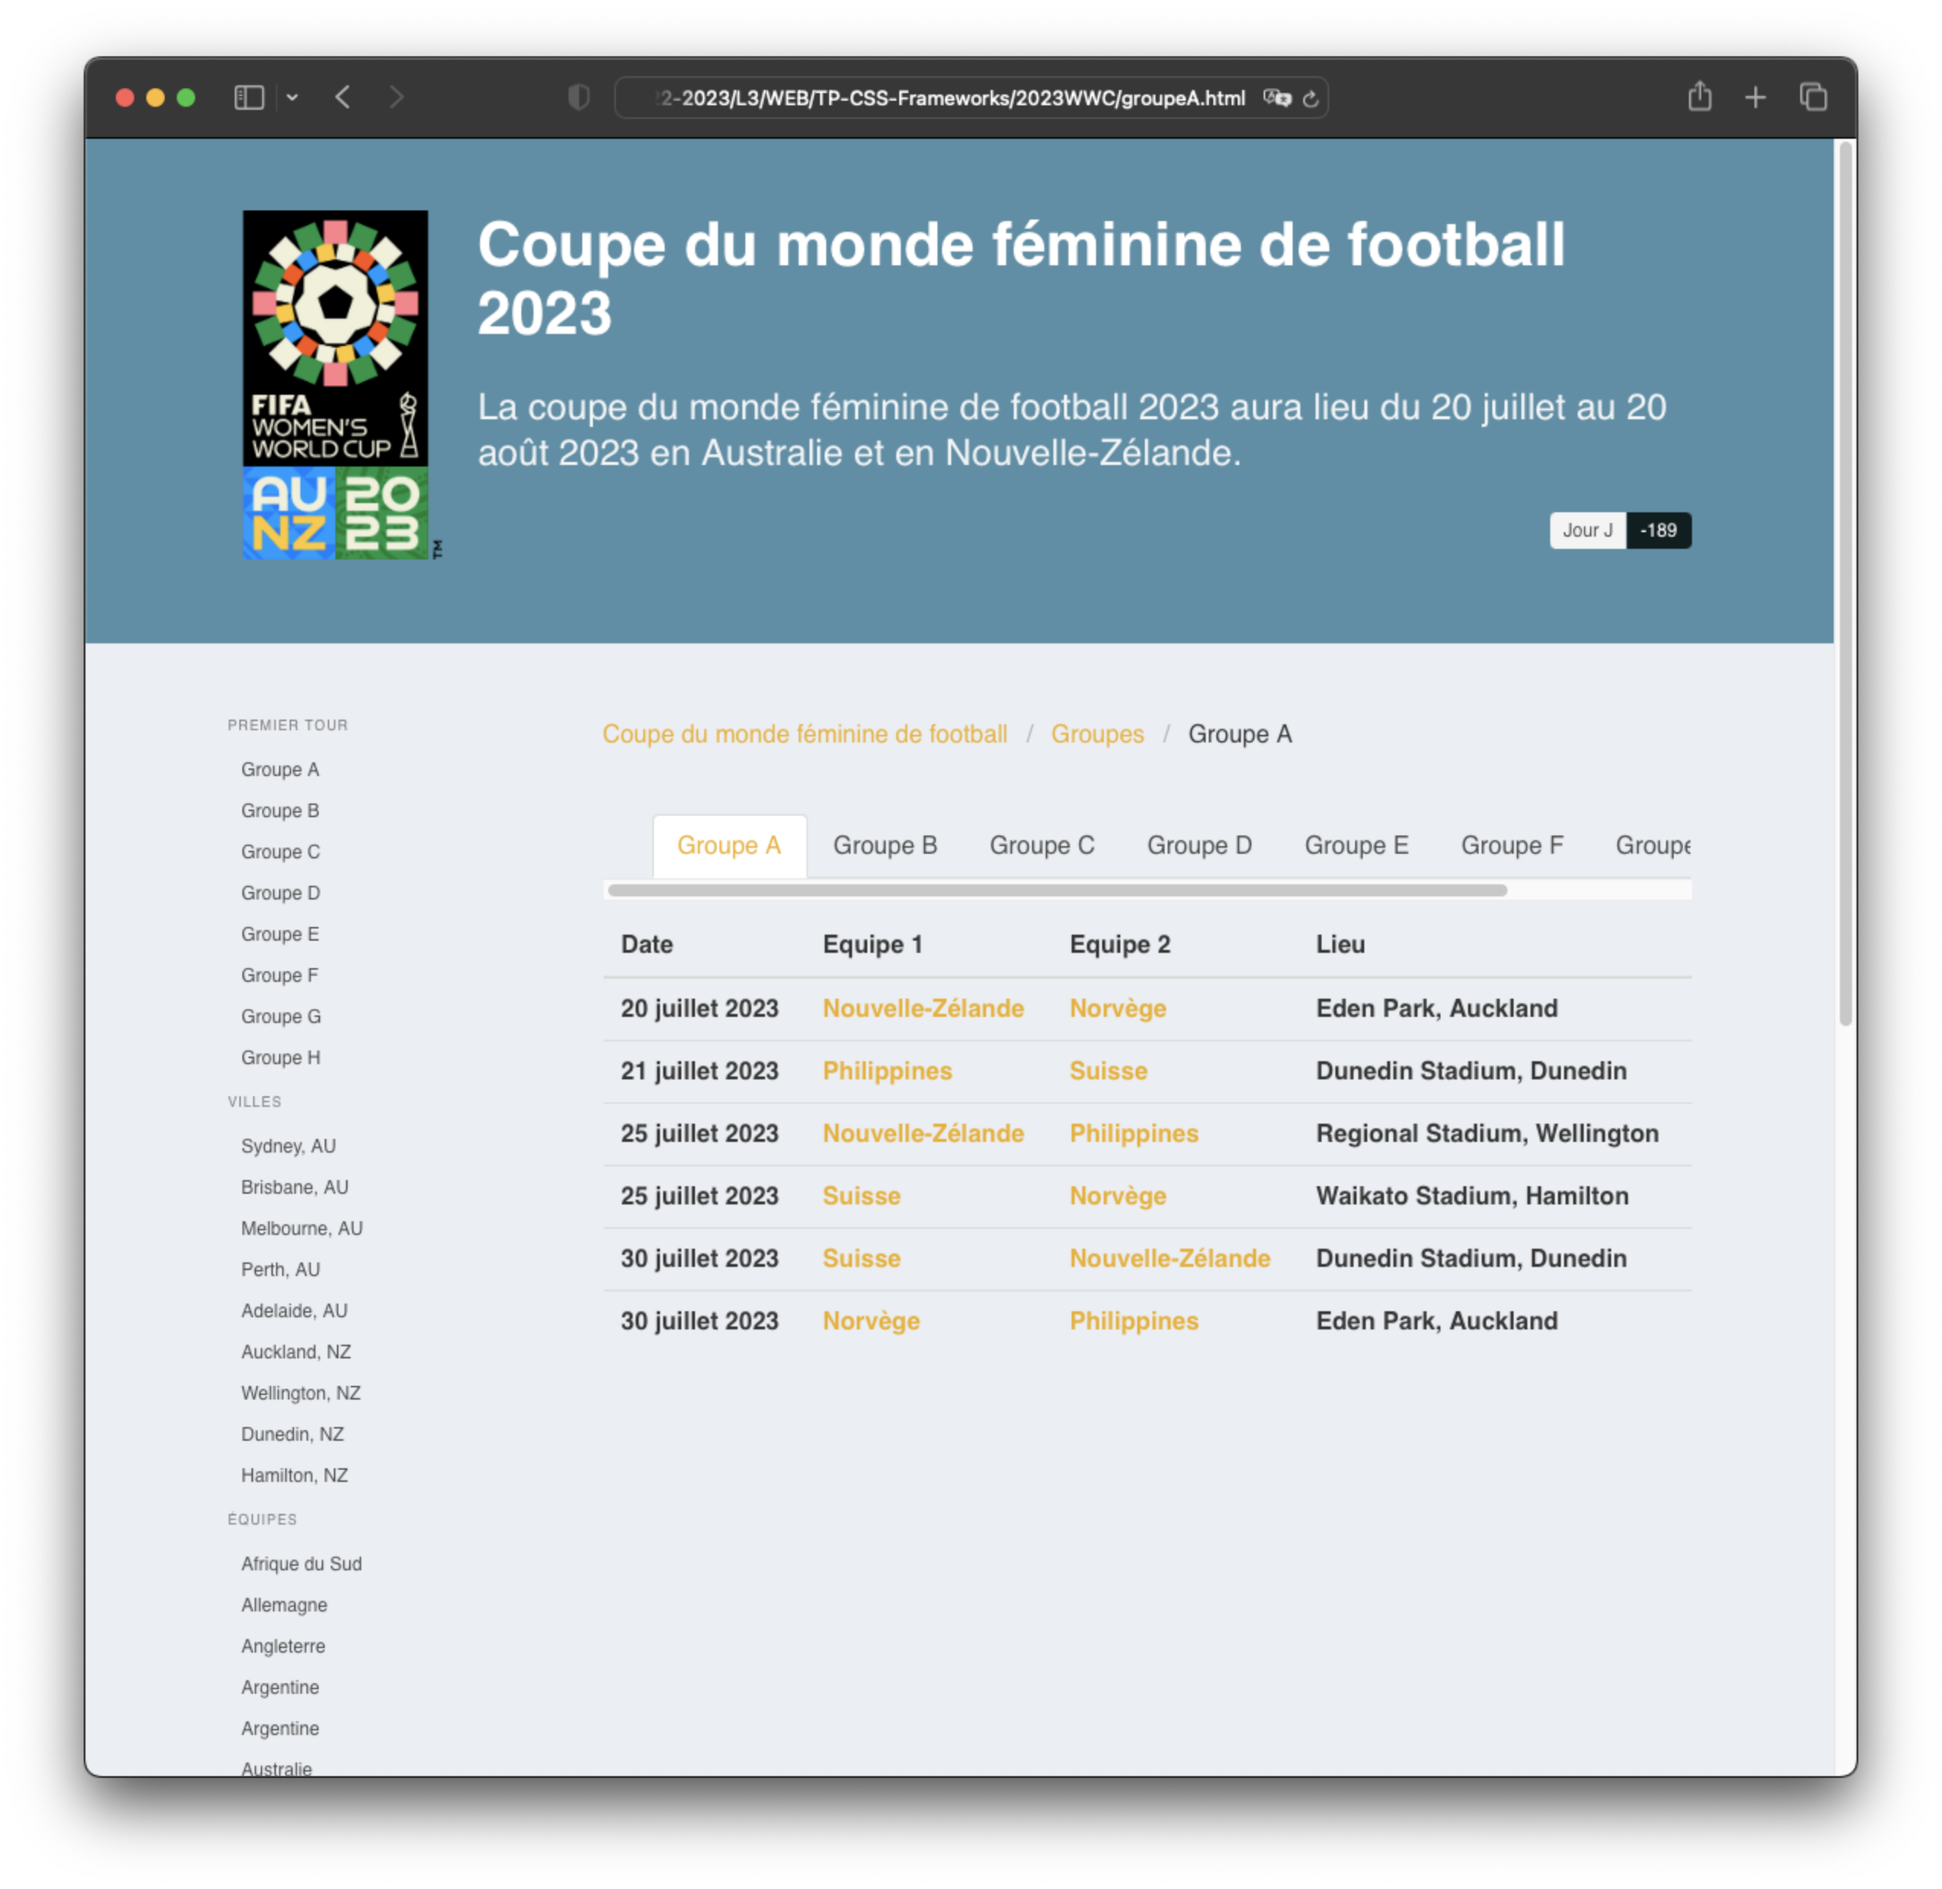
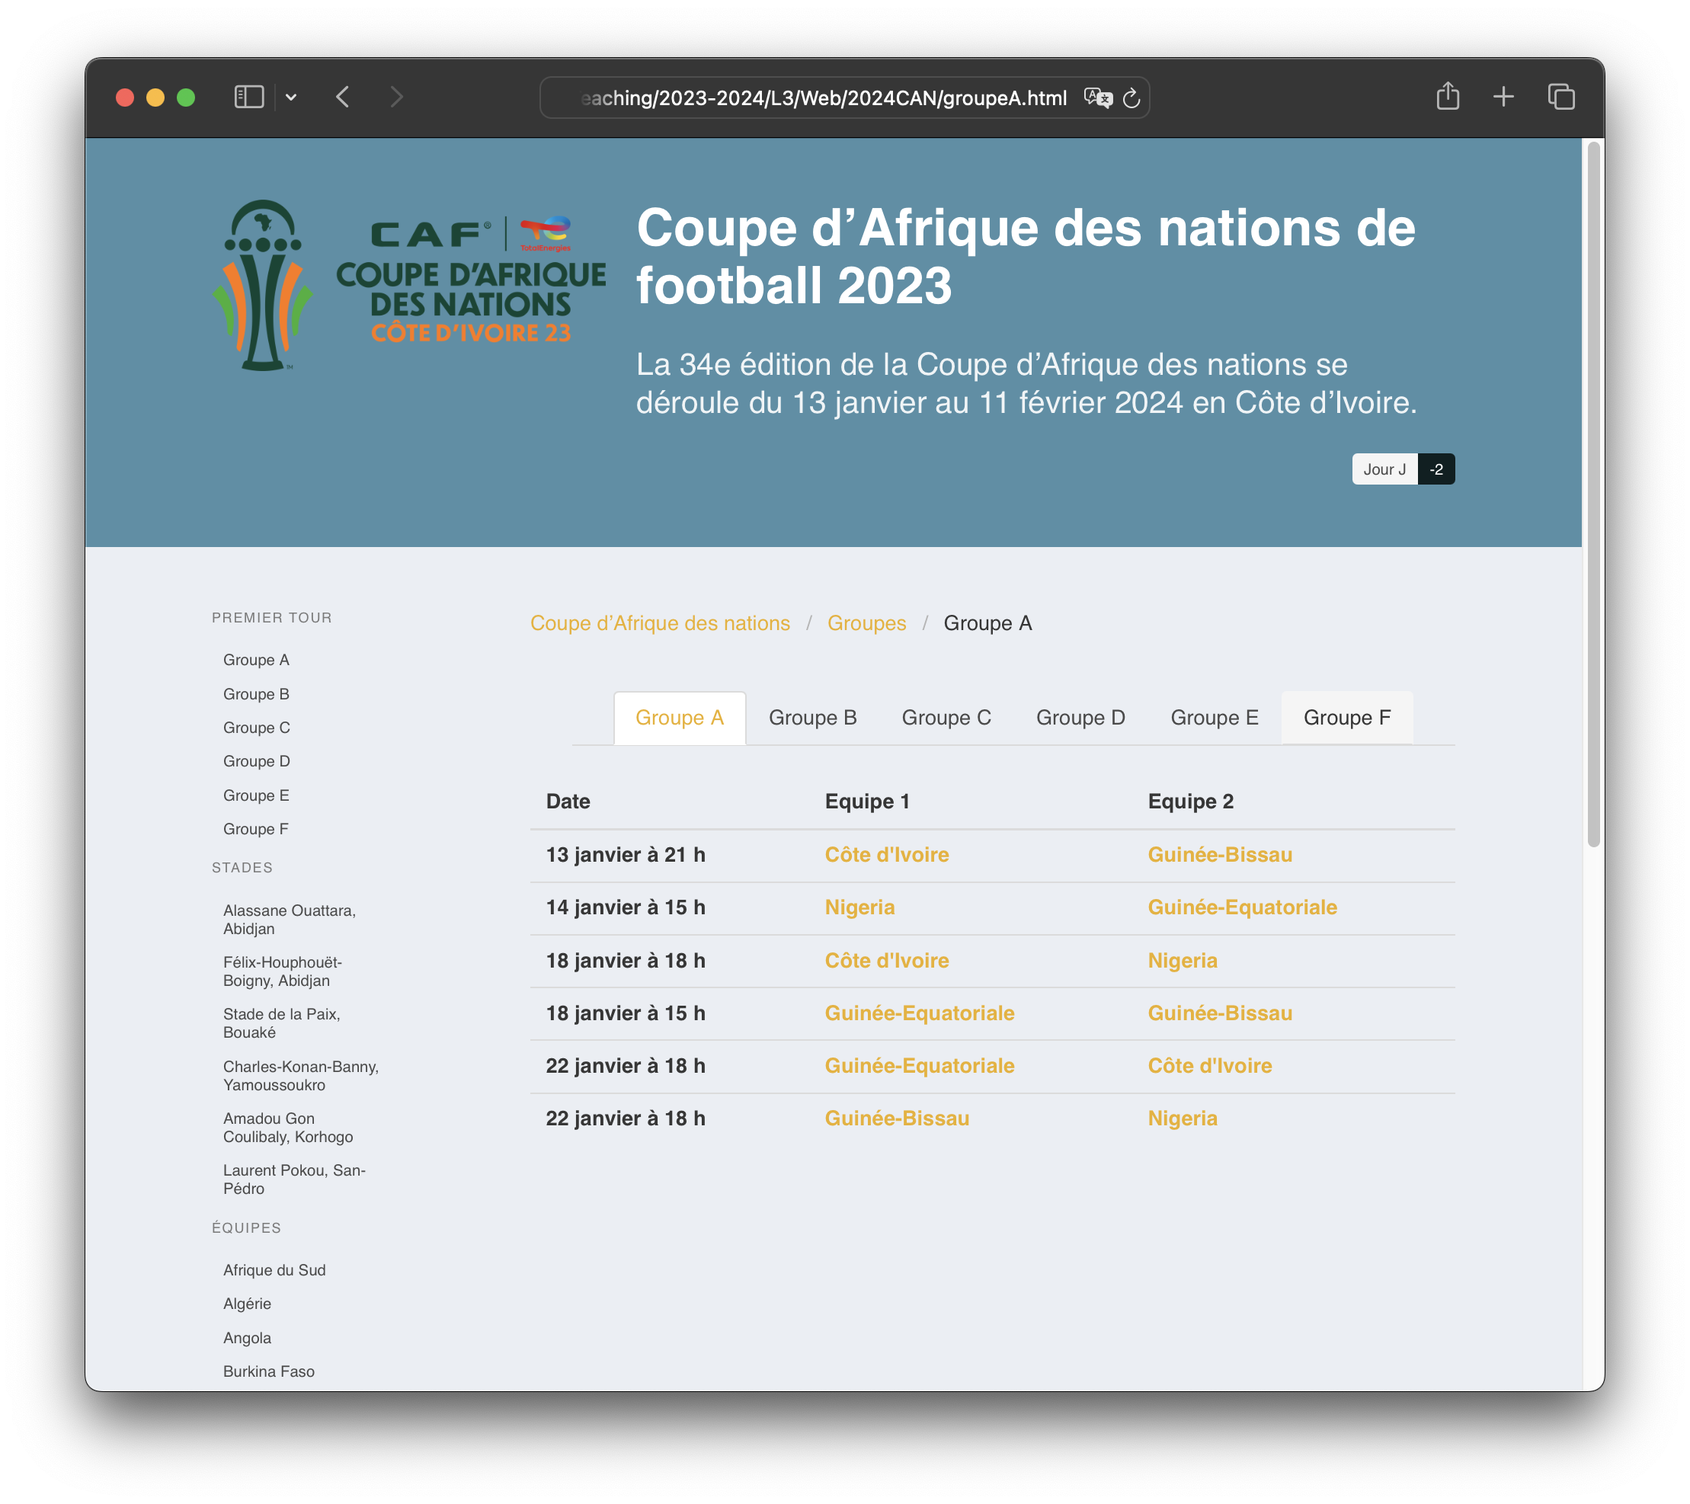
tp css

diff --git a/_posts/InfoWeb/2021-02-19-TP_Framework_CSS.md b/_posts/InfoWeb/2021-02-19-TP_Framework_CSS.md
@@ -5,7 +5,7 @@ categories:
 - InfoWeb
 - lab
 published: true
-update: 2023-01-11
+update: 2024-01-11
 
 ---
 
@@ -79,7 +79,7 @@ Se référer à la [documentation de bulma](https://bulma.io/documentation/) pou
 
 ## Travail à réaliser
 
-On se propose de créer un site Web en HTML et CSS statique (pas de PHP) qui permet de présenter les **équipes**  les **matchs** et les **groupes** de la [coupe du monde féminine de football](https://www.fifa.com/fifaplus/en/groupenaments/womens/womensworldcup/australia-new-zealand2023). Le but est de réaliser plusieurs pages sur ce sujet en utilisant le Framework CSS Bulma. Ce site possède plusieurs pages ou ensemble de pages liées entre elles. Le design doit respecter celui proposé par Bulma. Un maximum de [composants](https://bulma.io/documentation/components/) et d'[éléments](https://bulma.io/documentation/elements/) graphiques doivent être utilisés. Les pages sont "*responsives*" et utilisent le système de [colonnes](https://bulma.io/documentation/columns/) du Bulma.
+On se propose de créer un site Web en HTML et CSS statique (pas de PHP) qui permet de présenter les **équipes**  les **matchs** et les **groupes** de la Coupe d’Afrique des nations de football. Le but est de réaliser plusieurs pages sur ce sujet en utilisant le Framework CSS Bulma. Ce site possède plusieurs pages ou ensemble de pages liées entre elles. Le design doit respecter celui proposé par Bulma. Un maximum de [composants](https://bulma.io/documentation/components/) et d'[éléments](https://bulma.io/documentation/elements/) graphiques doivent être utilisés. Les pages sont "*responsives*" et utilisent le système de [colonnes](https://bulma.io/documentation/columns/) du Bulma.
 
 Toutes les pages ont la même base graphique avec une entête contenant un logo et un titre. Le logo devient centré et le titre passe sur la seconde ligne en mode étroit (mobile). Chaque page propose un menu latéral qui disparaît en mode étroit (mobile).
 
@@ -106,7 +106,7 @@ Pas la peine d'écrire *toutes* les pages de groupes. Une seule suffit.
 
 ### Les pages équipe
 
-A vous d'imaginer ce qu'une page équipe peut afficher en utilisant les éléments et composants de Bulma. Vous pouvez vous inspirer de  Wikipedia (e.g. [Équipe France féminine football](https://en.wikipedia.org/wiki/France_women%27s_national_football_team)) pour constater qu'une équipe possède un emblème, des couleurs, un sélectionneur, un capitaine, un classement internationale, etc. Pas la peine d'écrire *toutes* les pages équipes. Une seule suffit.
+A vous d'imaginer ce qu'une page équipe peut afficher en utilisant les éléments et composants de Bulma. Vous pouvez vous inspirer de  Wikipedia (e.g. [Équipe du Sénégal (Tenant du titre)](https://fr.wikipedia.org/wiki/%C3%89quipe_du_S%C3%A9n%C3%A9gal_de_football)) pour constater qu'une équipe possède un emblème, des couleurs, un sélectionneur, un capitaine, un classement internationale, etc. Pas la peine d'écrire *toutes* les pages équipes. Une seule suffit.
 
 <!-- ## Fin du TP
 
@@ -126,18 +126,6 @@ Bulma nous permet d'obtenir des pages Web stylisées très rapidement. Mais bulm
 
 
 
-
-#### nodejs
-
-Pour développer facilement il faut disposer de l'interpréteur javascript nodejs. On commence donc par installer node :
-  
-  - Windows : <https://nodejs.org/fr/download/>
-  - ubuntu : 
-    ```sh
-    curl -fsSL https://deb.nodesource.com/setup_lts.x | sudo -E bash -
-    sudo apt-get install -y nodejs
-    ```
-On vérifie que tout s'est bien passé en tapant la commande `node -v`.
 
 #### Bulma Start
 

diff --git a/_posts/InfoWeb/2021-03-21-TP-Symfony-Formulaires.md b/_posts/InfoWeb/2021-03-21-TP-Symfony-Formulaires.md
@@ -4,9 +4,9 @@ title: TP Symfony - Gestion des formulaires
 categories:  
 - InfoWeb
 - lab
-published: true
+published: false
 author: Yoann Pigné
-update: 2023-03-30
+update: 2024-01-30
 ---
 
 On  continue le travail commencé lors du [TP Précédent](http://pigne.org/teaching/infoweb/lab/TP-Symfony-Modeles).

diff --git a/_posts/InfoWeb/2021-02-21-MVC_PHP.md b/_posts/InfoWeb/2021-02-21-MVC_PHP.md
@@ -6,7 +6,7 @@ categories:
 - lecture
 author: Yoann Pigné
 tags: php
-published: true
+published: false
 update: 2023-02-23
 
 ---

diff --git a/_posts/InfoWeb/2021-03-11-Symfony-Modeles.md b/_posts/InfoWeb/2021-03-11-Symfony-Modeles.md
@@ -5,7 +5,7 @@ categories:
 - InfoWeb
 - lecture
 author: Yoann Pigné
-published: true
+published: false
 update: 2023-03-15
 ---
 

diff --git a/_posts/InfoWeb/2021-03-15-Symfony-Forms.md b/_posts/InfoWeb/2021-03-15-Symfony-Forms.md
@@ -5,7 +5,7 @@ categories:
 - InfoWeb
 - lecture
 author: Yoann Pigné
-published: true
+published: false
 update: 2023-03-29
 ---
 

diff --git a/_posts/InfoWeb/2021-03-04-TP_Introduction_Symfony.md b/_posts/InfoWeb/2021-03-04-TP_Introduction_Symfony.md
@@ -5,7 +5,7 @@ categories:
 - InfoWeb
 - lab
 author: Yoann Pigné
-published: true
+published: false
 update: 2023-03-17
 ---
 

diff --git a/_posts/InfoWeb/2021-03-14-TP-Symfony-Modeles.md b/_posts/InfoWeb/2021-03-14-TP-Symfony-Modeles.md
@@ -5,7 +5,7 @@ categories:
 - InfoWeb
 - lab
 author: Yoann Pigné
-published: true
+published: false
 update: 2023-03-23
 ---
 
